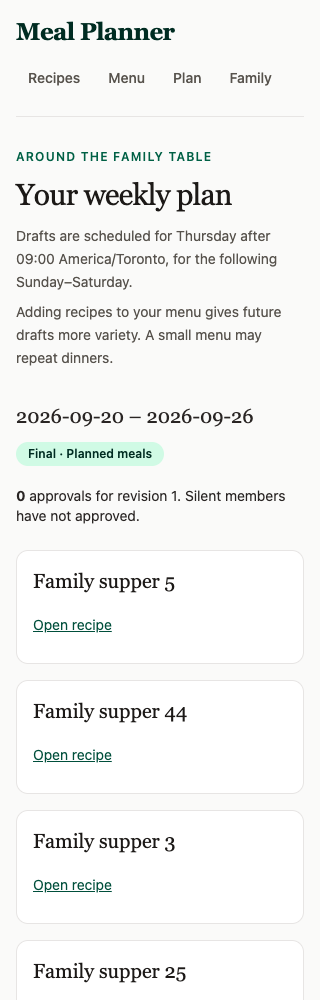
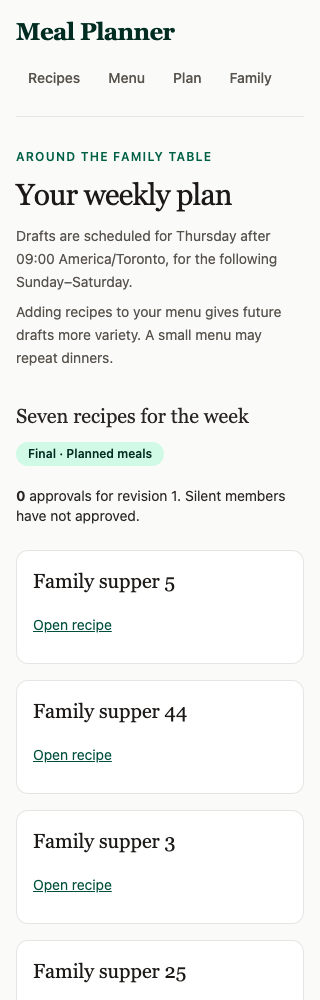
fix: remove dates from the weekly plan header

Changed region(s): [[0.0312, 0.403, 0.7812, 0.434]]

diff --git a/app/plans/page.tsx b/app/plans/page.tsx
@@ -4,7 +4,7 @@ import { getDatabase } from '../../lib/db';
 import allowed from '../../lib/allowed-google-emails.json';
 import { readPlans } from '../../lib/plans/store';
 import { parsePlanQuery } from '../../lib/plans/validation';
-import { addDays, currentWeek, draftDay } from '../../lib/plans/calendar';
+import { currentWeek, draftDay } from '../../lib/plans/calendar';
 import type { PlanView } from '../../lib/plans/types';
 import PlanControls from './plan-controls';
 export default async function PlansPage({ searchParams }: { searchParams: Promise<Record<string, string | string[] | undefined>> }) {
@@ -26,7 +26,7 @@ export default async function PlansPage({ searchParams }: { searchParams: Promis
     {!query ? <div className="mt-8"><p role="alert">This plan page is invalid.</p><a className={linkClass} href="/plans">Latest plan</a></div>
       : !view ? <div role="alert" className="mt-8"><p>Could not load your plan. Please try again.</p><a className={linkClass} href="/plans">Reload plans</a></div>
       : <>
-        <div className="mt-8 flex flex-wrap items-center gap-3"><p className="font-serif text-xl"><time dateTime={week}>{week}</time> – <time dateTime={addDays(week, 6)}>{addDays(week, 6)}</time></p>{view.plan ? <span className="rounded-full bg-emerald-100 px-3 py-1 text-xs font-semibold text-emerald-950">{view.plan.status === 'final' ? 'Final · Planned meals' : 'Draft'}</span> : null}</div>
+        <div className="mt-8 flex flex-wrap items-center gap-3"><p className="font-serif text-xl">{view.plan ? 'Seven recipes for the week' : 'Weekly recipes'}</p>{view.plan ? <span className="rounded-full bg-emerald-100 px-3 py-1 text-xs font-semibold text-emerald-950">{view.plan.status === 'final' ? 'Final · Planned meals' : 'Draft'}</span> : null}</div>
         {view.plan ? <PlanControls key={view.plan.id} view={view} /> : <div className="mt-6 rounded-xl border border-stone-200 bg-white p-5"><p>No draft exists for this week.</p><p className="mt-2 text-sm text-stone-600">The next scheduled draft can fill the upcoming week when your menu has saved recipes.</p></div>}
         {!view.menu.entries.length ? <p className="mt-5 text-sm">{query.menuAfter ? 'No recipes on this menu page. ' : 'Your menu is empty. '}<a className={linkClass} href="/menu">Open Menu</a> or <Link className={linkClass} href="/" prefetch={false}>find recipes</Link>.</p> : null}
         {view.editable ? <nav aria-label="Saved dinner pages" className="mt-5 flex flex-wrap gap-5"><a className={linkClass} href={`/plans?week=${week}`}>Newest saved dinners</a>{view.menu.nextCursor ? <a className={linkClass} href={`/plans?week=${week}&menuAfter=${encodeURIComponent(view.menu.nextCursor)}`}>Older saved dinners</a> : null}</nav> : null}

diff --git a/tests/plans/browser.ts b/tests/plans/browser.ts
@@ -21,7 +21,8 @@ try{
  async function recipeCards(expectedWeek: string) {
   assert.equal(await browser!.evaluate("document.querySelectorAll('article').length===7 && document.querySelectorAll('article h2').length===7 && !document.querySelector('article time,article [datetime]')"),true,'seven recipe-title cards without date elements');
   assert.equal(await browser!.evaluate("Array.from(document.querySelectorAll('article')).every(card=>!(/Sunday|Monday|Tuesday|Wednesday|Thursday|Friday|Saturday|\\d{4}-\\d{2}-\\d{2}/.test(card.innerText)))"),true,'recipe cards have no weekday/date assignment labels');
-  assert.equal(await browser!.evaluate(`Array.from(document.querySelectorAll('main > div time')).some(time=>time.getAttribute('datetime')===${JSON.stringify(expectedWeek)})`),true,'week range stays above cards');
+  assert.equal(await browser!.evaluate("(() => { const content=document.querySelector('main').cloneNode(true); content.querySelector('section[aria-labelledby=planned-history]')?.remove(); return !content.querySelector('time,[datetime]') && !/\\d{4}-\\d{2}-\\d{2}/.test(content.textContent); })()"),true,'no numeric dates or date elements outside history controls');
+  assert.equal(await browser!.evaluate(`document.querySelector('#history-week')?.value===${JSON.stringify(expectedWeek)}`),true,'history selector retains selected-week context');
  }
  const local=torontoClock(new Date());const due=new Date(local.date+'T23:00:00Z');
  await generateDuePlans(db,allowed,local.day,due);

diff --git a/org/memory/context.md b/org/memory/context.md
@@ -9,8 +9,8 @@ intent/weekly-meal-planning/intent.md
 ## Loop
 
 - status: in_progress
-- turn: 1
-- phase: build
+- turn: 2
+- phase: review
 - stop_reason: None
 
 ## Agents
@@ -19,9 +19,9 @@ intent/weekly-meal-planning/intent.md
 - memory-keeper: idle (unassigned)
 - orchestrator: idle (unassigned)
 - product-manager: idle (unassigned)
-- reviewer: idle (unassigned)
+- reviewer: busy (weekly-plan-header-implementation)
 - security-researcher: idle (unassigned)
-- senior-developer: busy (weekly-meal-planning-header-plan)
+- senior-developer: busy (weekly-plan-header-implementation)
 
 ## Open messages
 
@@ -96,6 +96,8 @@ intent/weekly-meal-planning/intent.md
 - orchestrator-0086 orchestrator -> reviewer handoff: Final shared layout implementation review
 - orchestrator-0093 orchestrator -> ceo handoff: Weekly meal planning ready for human merge review
 - orchestrator-0094 orchestrator -> reviewer handoff: Review removal of visible plan header dates
+- orchestrator-0095 orchestrator -> senior-developer handoff: Remove remaining plan header date range
+- orchestrator-0096 orchestrator -> reviewer handoff: Final review of undated plan header
 - product-manager-0002 product-manager -> orchestrator decision: Accepted pnpm migration intent
 - product-manager-0003 product-manager -> orchestrator decision: Accepted authenticated-access intent with Google sign-in
 - product-manager-0004 product-manager -> orchestrator decision: Accepted server-side Gmail allowlist amendment
@@ -158,6 +160,7 @@ intent/weekly-meal-planning/intent.md
 - senior-developer-0008 senior-developer -> security-researcher handoff: Inspect stable single-call provider implementation
 - senior-developer-0009 senior-developer -> reviewer handoff: Inspect stable single-call implementation before final evidence handoff
 - senior-developer-0015 senior-developer -> orchestrator handoff: Shared layout implementation verified
+- senior-developer-0017 senior-developer -> orchestrator handoff: Plan header dates removed and verified
 
 ## Recent decisions
 
@@ -174,10 +177,11 @@ intent/weekly-meal-planning/intent.md
 ## Artifacts
 
 - org/reviews/weekly-meal-planning-header-001.md (85d5bbc04baa54d499ba580c30f809685cf5a43a64a7605fcffc9854d3674c21)
+- intent/weekly-meal-planning/verification.md (d51c2449efa1f34c16939b12a5dcb958296e855545b8576eb08edc40792a83ae)
 
 ## Next action
 
-reviewer:approve_undated_plan_header
+senior-developer:remove_plan_header_dates
 
 ## Last digest source
 

diff --git a/intent/weekly-meal-planning/verification.md b/intent/weekly-meal-planning/verification.md
@@ -88,3 +88,31 @@ source/intent alignment and refreshed desktop/mobile screenshots.
 The local org loop completed at six turns. Human merge, staging/release approval,
 hosted migration and scheduler activation remain unperformed. Later audit-only
 commits do not change the fixed reviewed feature source above.
+
+## Header date-range refinement — final evidence
+
+Owner clarification `org/messages/ceo-0052.md` supersedes the retained-header-range
+assumption in the earlier screenshot evidence above. Independent approval:
+`org/reviews/weekly-meal-planning-header-001.md`, before source correction.
+
+Authored the browser assertion first: old compiled UI exited1 with the expected
+“no numeric dates or date elements outside history controls” failure. Updated only
+`app/plans/page.tsx` runtime presentation: main context now says “Seven recipes
+for the week” (or “Weekly recipes” without a plan), with no main date range.
+Selected-week handling and the date-bearing history controls remain unchanged.
+No scheduling, database, authentication or other core change.
+
+Final correction commands: `pnpm run lint` exit0; `pnpm run typecheck` exit0;
+`pnpm run build` exit0; `pnpm run test:plans` exit0,13/13; and
+`node --import tsx tests/plans/browser.ts` exit0. Chrome asserts seven undated
+recipe-title cards, no numeric dates/date elements outside history controls in
+draft/final/history, and retained selected-week history input. All prior physical
+approval/swap/reset/stale refresh/pagination/confirmation/history checks passed
+at320/1440, with no overflow or unexpected console errors.
+
+All six `weekly-plan-{draft,swap,history}-{320,1440}.png` screenshots were
+recaptured from the corrected final build. Visually inspected desktop draft,
+mobile accepted long-title swap and mobile finalized history: all show “Seven
+recipes for the week” and no actual dates near the header or recipe cards.
+These latest images supersede earlier header-range screenshots. The owned server,
+Chrome profile and disposable database were cleaned up. `git diff --check` exit0.

diff --git a/intent/weekly-meal-planning/plan.md b/intent/weekly-meal-planning/plan.md
@@ -175,8 +175,8 @@ are part of this amendment.
 
 ## Owner follow-up amendment — remove main-header date range
 
-Source: `org/messages/ceo-0052.md`. Pending independent approval before source
-changes. Supersedes the retained-header-range instruction in the first amendment.
+Source: `org/messages/ceo-0052.md`. Independently approved before source
+changes: `org/reviews/weekly-meal-planning-header-001.md`. Supersedes the retained-header-range instruction in the first amendment.
 The main plan header presents seven recipes without a numeric week/date range;
 only history controls retain week dates. Cards remain undated in draft, final and
 retained-history views. Schedule explanation weekday words/time may remain.

diff --git a/org/messages/orchestrator-0095.md b/org/messages/orchestrator-0095.md
@@ -1,0 +1,16 @@
+---
+id: orchestrator-0095
+from: orchestrator
+to: senior-developer
+kind: handoff
+subject: Remove remaining plan header date range
+artifact: intent/weekly-meal-planning/plan.md
+requires_response: false
+in_reply_to: null
+status: open
+severity: null
+blocking: false
+created_at: "2026-11-24T19:37:54Z"
+---
+
+Independent amendment approved and committed. Remove main-header numeric date range; leave dates only in history controls. Preserve seven recipes, core behavior and full interactions. Run relevant lint/typecheck/build/13plans and Chrome320/1440, recapture/inspect6screenshots. No data/auth/scheduler changes.

diff --git a/org/messages/senior-developer-0017.md b/org/messages/senior-developer-0017.md
@@ -1,0 +1,16 @@
+---
+id: senior-developer-0017
+from: senior-developer
+to: orchestrator
+kind: handoff
+subject: Plan header dates removed and verified
+artifact: intent/weekly-meal-planning/verification.md
+requires_response: false
+in_reply_to: null
+status: open
+severity: null
+blocking: false
+created_at: "2026-11-24T19:39:53Z"
+---
+
+Only page presentation changed: Seven recipes for the week replaces main range; dates remain only within history controls. Lint/typecheck/build13plans/Chrome320/1440 all pass;6screenshots recaptured and inspected, genuine redbaseline recorded. Source frozen for final review.

diff --git a/org/messages/orchestrator-0096.md b/org/messages/orchestrator-0096.md
@@ -1,0 +1,16 @@
+---
+id: orchestrator-0096
+from: orchestrator
+to: reviewer
+kind: handoff
+subject: Final review of undated plan header
+artifact: weekly-plan-header-implementation
+requires_response: false
+in_reply_to: null
+status: open
+severity: null
+blocking: false
+created_at: "2026-11-24T19:39:53Z"
+---
+
+Header correction and evidence green; inspect newest screenshots and exact source SHA to follow. Prior full feature core/security approval unchanged. Dates only in history controls. No merge/release/activation authority.
